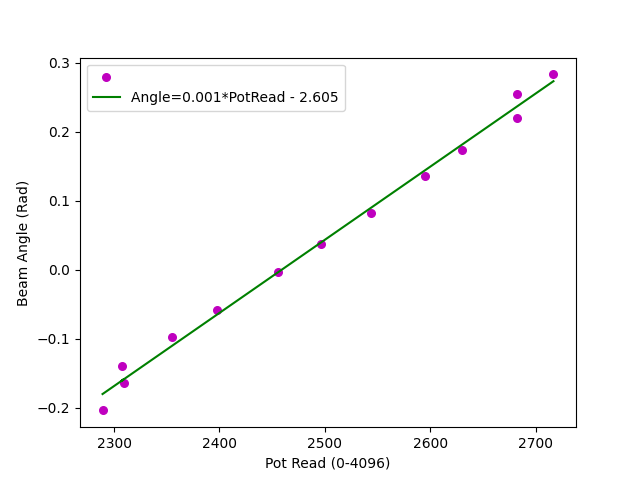
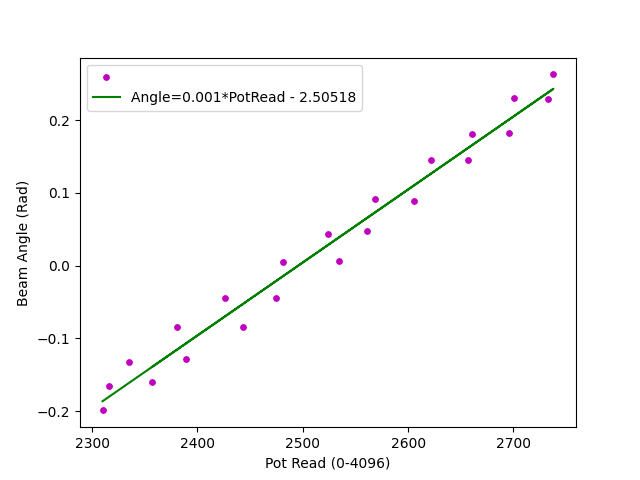
feat(pot_calibration): New calibration and some refactoring.

diff --git a/src/pot_calibration/pot_calibration/redo_with_points.py b/src/pot_calibration/pot_calibration/redo_with_points.py
@@ -1,9 +1,6 @@
-import rclpy, os
 import numpy as np
 import matplotlib.pyplot as plt
 from scipy import stats
-
-from pot_calibration.client_pot import PotentiometerClient
 
 def save_calibration(points, ang, lin):
     with open('/root/ball-beam/src/pot_calibration/calibration/current_calibration.txt', 'a') as file:
@@ -12,7 +9,16 @@ def save_calibration(points, ang, lin):
 
         sign = '+' if lin >= 0 else '-'
         file.write(f'Angle={ang}*PotRead {sign} {abs(lin)}')
-    
+
+def lin_reg(points):
+    points = np.array(points)
+    x = points[:,0]
+    y = points[:,1]
+
+    slope, intercept, _, _, _ = stats.linregress(x, y)
+
+    return slope, intercept
+
 def plot_calibration(points, ang, lin):
     points = np.array(points)
     x = points[:,0]
@@ -38,55 +44,17 @@ def plot_calibration(points, ang, lin):
     plt.savefig('/root/ball-beam/src/pot_calibration/calibration/current_calibration.png')
     plt.close()
 
-def calibration(client):
-    com = None
-
-    calibration_points = []
-    while com != 'q':
-        print('Move up [U] | Move down [D] | Quit [Q]')
-        com = input('Select option: ').lower()
-
-        if com in 'ud':
-            if com == 'u':
-                servo_increment = 10
-            elif com == 'd':
-                servo_increment = -10
-            
-            pot = client.send_request(servo_increment).pot_read
-
-            try:
-                rad_angle = round( 3.14*float(input('Angle measurement (degrees): '))/180.0 , 5)
-                calibration_points.append((pot, rad_angle))
-            except:
-                print('Input error, point not added to list.')
-
-    return calibration_points
-
-def lin_reg(points):
-    points = np.array(points)
-    x = points[:,0]
-    y = points[:,1]
-
-    slope, intercept, _, _, _ = stats.linregress(x, y)
-
-    return slope, intercept
+def calibration():
+    return [(2310, -0.199), (2316, -0.166), (2335, -0.133), (2381, -0.085), (2426, -0.045), (2481, 0.005), (2524, 0.044), (2569, 0.091), (2622, 0.145), (2661, 0.181), (2701, 0.23), (2738, 0.263), (2733, 0.229), (2696, 0.183), (2657, 0.145), (2606, 0.089), (2561, 0.047), (2534, 0.007), (2475, -0.045), (2443, -0.085), (2389, -0.129), (2357, -0.16)]
 
 def main(args=None):
-    rclpy.init(args=args)
-    
-    client = PotentiometerClient()
-
-    cal_points =  calibration(client)
-    print(f'Points captured (Pot-Read, Beam-Angle(rad)):\n\t{cal_points}')
+    cal_points =  calibration()
 
     ang_coef, lin_coef = lin_reg(cal_points)
 
     plot_calibration(cal_points, ang_coef, lin_coef)
     
     save_calibration(cal_points, ang_coef, lin_coef)
-
-    client.destroy_node()
-    rclpy.shutdown()
 
 if __name__ == '__main__':
     main()

diff --git a/src/pot_calibration/setup.py b/src/pot_calibration/setup.py
@@ -4,7 +4,7 @@ package_name = 'pot_calibration'
 
 setup(
     name=package_name,
-    version='0.0.0',
+    version='1.0.0',
     packages=find_packages(exclude=['test']),
     data_files=[
         ('share/ament_index/resource_index/packages',
